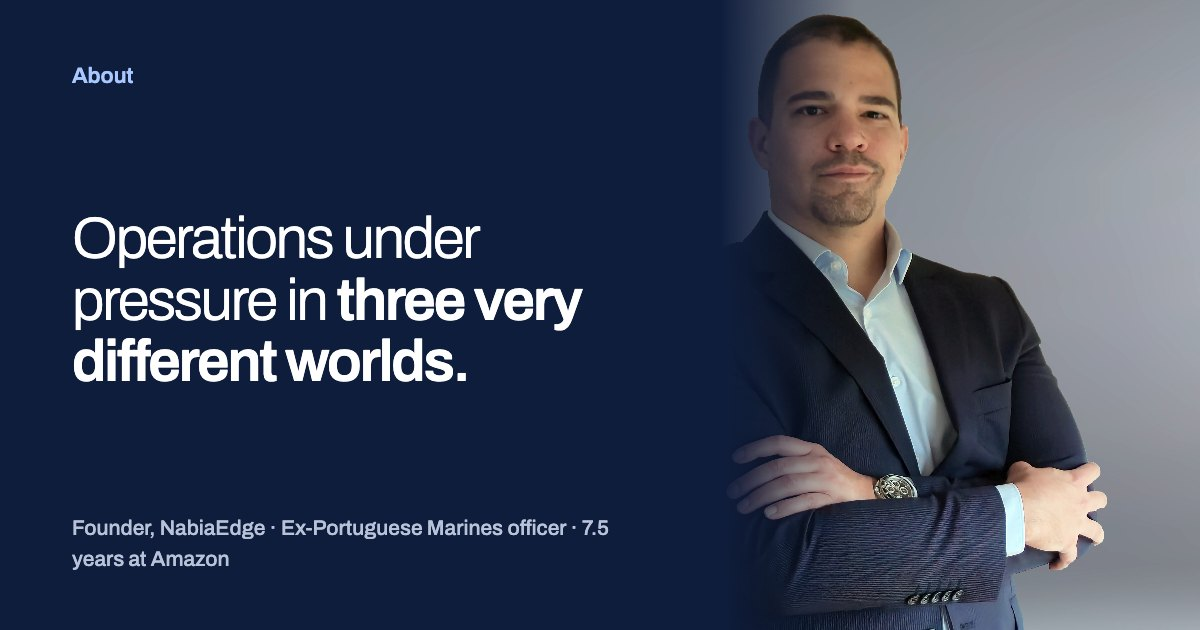
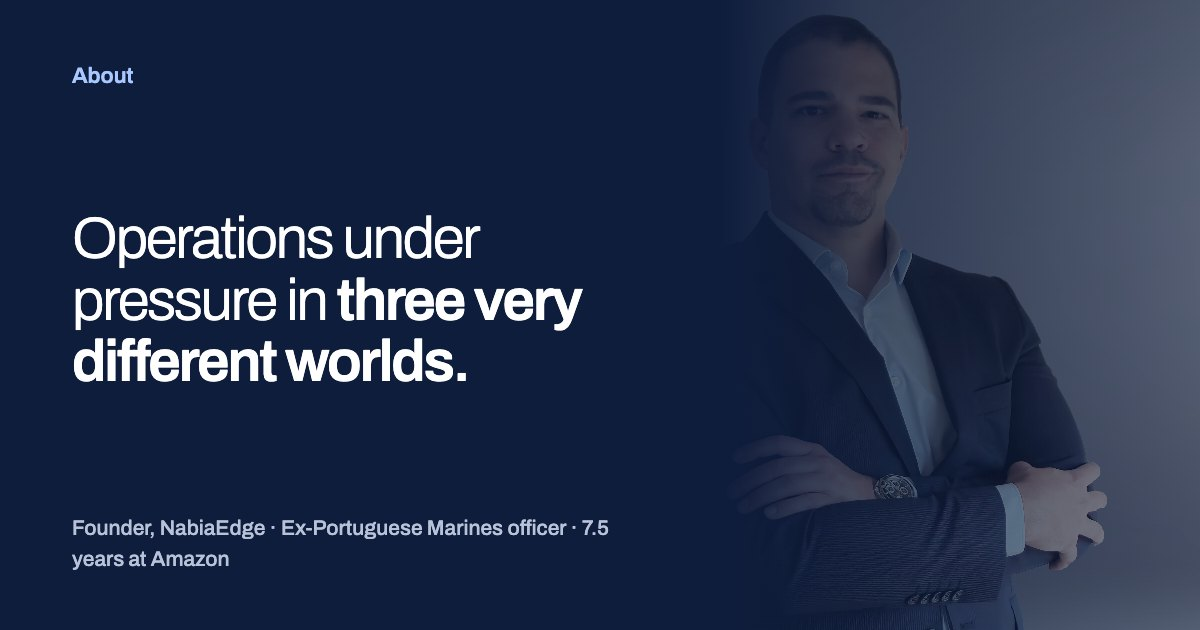
Align case study cards with other boxes; spacing on Business Advisory; softer photo in share images

Changed region(s): [[0.6167, 0.0, 1.0, 1.0]]

diff --git a/publish/index.html b/publish/index.html
@@ -19,13 +19,13 @@
 <meta property="og:url" content="https://www.nunofontoura.com/">
 <meta property="og:title" content="Nuno Fontoura | Founder, NabiaEdge | Business Advisory for Agencies">
 <meta property="og:description" content="I help founders of creative and production agencies build the operating system that runs the business without them. Ex-Marines officer, 7.5 years at Amazon.">
-<meta property="og:image" content="https://www.nunofontoura.com/assets/og/home.jpg?v=2">
+<meta property="og:image" content="https://www.nunofontoura.com/assets/og/home.jpg?v=3">
 <meta property="og:image:width" content="1200">
 <meta property="og:image:height" content="630">
 <meta name="twitter:card" content="summary_large_image">
 <link rel="preconnect" href="https://fonts.googleapis.com">
 <link rel="preconnect" href="https://fonts.gstatic.com" crossorigin>
-<script type="application/ld+json">{"@context": "https://schema.org", "@graph": [{"@type": "Person", "@id": "https://www.nunofontoura.com/#nuno", "name": "Nuno Fontoura", "url": "https://www.nunofontoura.com/", "image": "https://www.nunofontoura.com/assets/images/portrait.jpg", "jobTitle": "Founder, NabiaEdge", "email": "mailto:info@nabiaedge.com", "worksFor": {"@id": "https://www.nunofontoura.com/#nabiaedge"}, "sameAs": ["https://www.linkedin.com/in/nfontoura", "https://www.instagram.com/nuno.fontoura/", "https://www.msn.com/en-us/money/smallbusiness/top-10-most-inspiring-men-in-2026/ar-AA23TQVG"]}, {"@type": "ProfessionalService", "@id": "https://www.nunofontoura.com/#nabiaedge", "name": "NabiaEdge", "url": "https://www.nunofontoura.com/", "logo": "https://www.nunofontoura.com/icon-512.png", "image": "https://www.nunofontoura.com/assets/og/home.jpg?v=2", "email": "info@nabiaedge.com", "founder": {"@id": "https://www.nunofontoura.com/#nuno"}, "knowsLanguage": ["en", "pt"], "description": "I help founders of creative and production agencies build the operating system that runs the business without them. Ex-Marines officer, 7.5 years at Amazon."}, {"@type": "WebSite", "@id": "https://www.nunofontoura.com/#website", "url": "https://www.nunofontoura.com/", "name": "Nuno Fontoura", "inLanguage": ["en", "pt-PT"], "publisher": {"@id": "https://www.nunofontoura.com/#nuno"}}]}</script>
+<script type="application/ld+json">{"@context": "https://schema.org", "@graph": [{"@type": "Person", "@id": "https://www.nunofontoura.com/#nuno", "name": "Nuno Fontoura", "url": "https://www.nunofontoura.com/", "image": "https://www.nunofontoura.com/assets/images/portrait.jpg", "jobTitle": "Founder, NabiaEdge", "email": "mailto:info@nabiaedge.com", "worksFor": {"@id": "https://www.nunofontoura.com/#nabiaedge"}, "sameAs": ["https://www.linkedin.com/in/nfontoura", "https://www.instagram.com/nuno.fontoura/", "https://www.msn.com/en-us/money/smallbusiness/top-10-most-inspiring-men-in-2026/ar-AA23TQVG"]}, {"@type": "ProfessionalService", "@id": "https://www.nunofontoura.com/#nabiaedge", "name": "NabiaEdge", "url": "https://www.nunofontoura.com/", "logo": "https://www.nunofontoura.com/icon-512.png", "image": "https://www.nunofontoura.com/assets/og/home.jpg?v=3", "email": "info@nabiaedge.com", "founder": {"@id": "https://www.nunofontoura.com/#nuno"}, "knowsLanguage": ["en", "pt"], "description": "I help founders of creative and production agencies build the operating system that runs the business without them. Ex-Marines officer, 7.5 years at Amazon."}, {"@type": "WebSite", "@id": "https://www.nunofontoura.com/#website", "url": "https://www.nunofontoura.com/", "name": "Nuno Fontoura", "inLanguage": ["en", "pt-PT"], "publisher": {"@id": "https://www.nunofontoura.com/#nuno"}}]}</script>
 <link rel="stylesheet" href="https://fonts.googleapis.com/css2?family=Archivo:wght@300;400;500;600;800&display=swap">
 <link rel="stylesheet" href="/ds/styles.css?v=ff47d7bf5d">
 <link rel="stylesheet" href="/booking.css?v=6de085d2f6">
@@ -40,7 +40,7 @@ html{scroll-behavior:smooth}
 body{margin:0;text-wrap:pretty}
 .fc1:focus-visible{left:12px !important;top:12px !important}
 </style>
-<link rel="stylesheet" href="/premium.css?v=4b8e199302">
+<link rel="stylesheet" href="/premium.css?v=c250101048">
 </head>
 <body class="pm">
 <a class="pm-skip" href="#main-content">Skip to content</a>

diff --git a/publish/pt/index.html b/publish/pt/index.html
@@ -19,13 +19,13 @@
 <meta property="og:url" content="https://www.nunofontoura.com/pt/">
 <meta property="og:title" content="Nuno Fontoura | Fundador, NabiaEdge | Assessoria para Agências">
 <meta property="og:description" content="Ajudo fundadores de agências criativas e de produção a construir o sistema operacional que gere o negócio sem si. Ex-oficial dos Fuzileiros, 7,5 anos na Amazon.">
-<meta property="og:image" content="https://www.nunofontoura.com/assets/og/home-pt.jpg?v=2">
+<meta property="og:image" content="https://www.nunofontoura.com/assets/og/home-pt.jpg?v=3">
 <meta property="og:image:width" content="1200">
 <meta property="og:image:height" content="630">
 <meta name="twitter:card" content="summary_large_image">
 <link rel="preconnect" href="https://fonts.googleapis.com">
 <link rel="preconnect" href="https://fonts.gstatic.com" crossorigin>
-<script type="application/ld+json">{"@context": "https://schema.org", "@graph": [{"@type": "Person", "@id": "https://www.nunofontoura.com/#nuno", "name": "Nuno Fontoura", "url": "https://www.nunofontoura.com/", "image": "https://www.nunofontoura.com/assets/images/portrait.jpg", "jobTitle": "Founder, NabiaEdge", "email": "mailto:info@nabiaedge.com", "worksFor": {"@id": "https://www.nunofontoura.com/#nabiaedge"}, "sameAs": ["https://www.linkedin.com/in/nfontoura", "https://www.instagram.com/nuno.fontoura/", "https://www.msn.com/en-us/money/smallbusiness/top-10-most-inspiring-men-in-2026/ar-AA23TQVG"]}, {"@type": "ProfessionalService", "@id": "https://www.nunofontoura.com/#nabiaedge", "name": "NabiaEdge", "url": "https://www.nunofontoura.com/", "logo": "https://www.nunofontoura.com/icon-512.png", "image": "https://www.nunofontoura.com/assets/og/home.jpg?v=2", "email": "info@nabiaedge.com", "founder": {"@id": "https://www.nunofontoura.com/#nuno"}, "knowsLanguage": ["en", "pt"], "description": "I help founders of creative and production agencies build the operating system that runs the business without them. Ex-Marines officer, 7.5 years at Amazon."}, {"@type": "WebSite", "@id": "https://www.nunofontoura.com/#website", "url": "https://www.nunofontoura.com/", "name": "Nuno Fontoura", "inLanguage": ["en", "pt-PT"], "publisher": {"@id": "https://www.nunofontoura.com/#nuno"}}]}</script>
+<script type="application/ld+json">{"@context": "https://schema.org", "@graph": [{"@type": "Person", "@id": "https://www.nunofontoura.com/#nuno", "name": "Nuno Fontoura", "url": "https://www.nunofontoura.com/", "image": "https://www.nunofontoura.com/assets/images/portrait.jpg", "jobTitle": "Founder, NabiaEdge", "email": "mailto:info@nabiaedge.com", "worksFor": {"@id": "https://www.nunofontoura.com/#nabiaedge"}, "sameAs": ["https://www.linkedin.com/in/nfontoura", "https://www.instagram.com/nuno.fontoura/", "https://www.msn.com/en-us/money/smallbusiness/top-10-most-inspiring-men-in-2026/ar-AA23TQVG"]}, {"@type": "ProfessionalService", "@id": "https://www.nunofontoura.com/#nabiaedge", "name": "NabiaEdge", "url": "https://www.nunofontoura.com/", "logo": "https://www.nunofontoura.com/icon-512.png", "image": "https://www.nunofontoura.com/assets/og/home.jpg?v=3", "email": "info@nabiaedge.com", "founder": {"@id": "https://www.nunofontoura.com/#nuno"}, "knowsLanguage": ["en", "pt"], "description": "I help founders of creative and production agencies build the operating system that runs the business without them. Ex-Marines officer, 7.5 years at Amazon."}, {"@type": "WebSite", "@id": "https://www.nunofontoura.com/#website", "url": "https://www.nunofontoura.com/", "name": "Nuno Fontoura", "inLanguage": ["en", "pt-PT"], "publisher": {"@id": "https://www.nunofontoura.com/#nuno"}}]}</script>
 <link rel="stylesheet" href="https://fonts.googleapis.com/css2?family=Archivo:wght@300;400;500;600;800&display=swap">
 <link rel="stylesheet" href="/ds/styles.css?v=ff47d7bf5d">
 <link rel="stylesheet" href="/booking.css?v=6de085d2f6">
@@ -54,7 +54,7 @@ body{margin:0;text-wrap:pretty}
 <style>
 .hv1:hover{color:var(--color-accent) !important}
 </style>
-<link rel="stylesheet" href="/premium.css?v=4b8e199302">
+<link rel="stylesheet" href="/premium.css?v=c250101048">
 </head>
 <body class="pm">
 <a class="pm-skip" href="#main-content">Saltar para o conte&uacute;do</a>

diff --git a/publish/case-studies/yunik/index.html b/publish/case-studies/yunik/index.html
@@ -6,7 +6,7 @@
 <title>Case Study: Yunik, a Brand Activation Agency | Nuno Fontoura</title>
 <meta name="description" content="How Yunik, a brand activation agency in Viseu, cut the decisions reaching its owner by 30% in five months with a clear structure, briefing standard, project board and SOPs.">
 <link rel="canonical" href="https://www.nunofontoura.com/case-studies/yunik/">
-<script type="application/ld+json">{"@context": "https://schema.org", "@type": "Article", "headline": "30% fewer decisions on the owner's desk in five months", "description": "How Yunik, a brand activation agency in Viseu, cut the decisions reaching its owner by 30% in five months with a clear structure, briefing standard, project board and SOPs.", "author": {"@type": "Person", "@id": "https://www.nunofontoura.com/#nuno", "name": "Nuno Fontoura"}, "publisher": {"@id": "https://www.nunofontoura.com/#nabiaedge"}, "about": {"@type": "Organization", "name": "Yunik", "url": "https://yunik.us/", "address": {"@type": "PostalAddress", "addressLocality": "Viseu", "addressCountry": "PT"}}, "datePublished": "2026-09-17", "image": "https://www.nunofontoura.com/assets/og/case-study-yunik.jpg?v=2", "mainEntityOfPage": "https://www.nunofontoura.com/case-studies/yunik/"}</script>
+<script type="application/ld+json">{"@context": "https://schema.org", "@type": "Article", "headline": "30% fewer decisions on the owner's desk in five months", "description": "How Yunik, a brand activation agency in Viseu, cut the decisions reaching its owner by 30% in five months with a clear structure, briefing standard, project board and SOPs.", "author": {"@type": "Person", "@id": "https://www.nunofontoura.com/#nuno", "name": "Nuno Fontoura"}, "publisher": {"@id": "https://www.nunofontoura.com/#nabiaedge"}, "about": {"@type": "Organization", "name": "Yunik", "url": "https://yunik.us/", "address": {"@type": "PostalAddress", "addressLocality": "Viseu", "addressCountry": "PT"}}, "datePublished": "2026-09-17", "image": "https://www.nunofontoura.com/assets/og/case-study-yunik.jpg?v=3", "mainEntityOfPage": "https://www.nunofontoura.com/case-studies/yunik/"}</script>
 <meta name="theme-color" content="#0F1D3D">
 <link rel="icon" href="/favicon.ico" sizes="32x32">
 <link rel="icon" href="/favicon.svg" type="image/svg+xml">
@@ -17,7 +17,7 @@
 <meta property="og:url" content="https://www.nunofontoura.com/case-studies/yunik/">
 <meta property="og:title" content="Case Study: Yunik, a Brand Activation Agency | Nuno Fontoura">
 <meta property="og:description" content="How Yunik, a brand activation agency in Viseu, cut the decisions reaching its owner by 30% in five months with a clear structure, briefing standard, project board and SOPs.">
-<meta property="og:image" content="https://www.nunofontoura.com/assets/og/case-study-yunik.jpg?v=2">
+<meta property="og:image" content="https://www.nunofontoura.com/assets/og/case-study-yunik.jpg?v=3">
 <meta property="og:image:width" content="1200">
 <meta property="og:image:height" content="630">
 <meta name="twitter:card" content="summary_large_image">
@@ -46,7 +46,7 @@ body{margin:0;text-wrap:pretty}
 <style>
 .hv1:hover{color:var(--color-accent) !important}
 </style>
-<link rel="stylesheet" href="/premium.css?v=4b8e199302">
+<link rel="stylesheet" href="/premium.css?v=c250101048">
 </head>
 <body class="pm">
 <a class="pm-skip" href="#main-content">Skip to content</a>

diff --git a/publish/case-studies/psicodramatizar/index.html b/publish/case-studies/psicodramatizar/index.html
@@ -6,7 +6,7 @@
 <title>Case Study: Psicodramatizar, a Psychology Clinic | Nuno Fontoura</title>
 <meta name="description" content="How a clinical psychology clinic in Porto cut money owed by 70%, late payments by 80% and grew revenue 10% with a receivables tracker, simpler payments and a clear revenue target.">
 <link rel="canonical" href="https://www.nunofontoura.com/case-studies/psicodramatizar/">
-<script type="application/ld+json">{"@context": "https://schema.org", "@type": "Article", "headline": "70% less money owed to the clinic, and 80% fewer late payments", "author": {"@type": "Person", "@id": "https://www.nunofontoura.com/#nuno", "name": "Nuno Fontoura"}, "datePublished": "2026-09-17", "about": {"@type": "MedicalClinic", "name": "Psicodramatizar", "url": "https://www.psicodramatizar.com/", "address": {"@type": "PostalAddress", "addressLocality": "Porto", "addressCountry": "PT"}}, "image": "https://www.nunofontoura.com/assets/og/case-study-psicodramatizar.jpg?v=2", "mainEntityOfPage": "https://www.nunofontoura.com/case-studies/psicodramatizar/"}</script>
+<script type="application/ld+json">{"@context": "https://schema.org", "@type": "Article", "headline": "70% less money owed to the clinic, and 80% fewer late payments", "author": {"@type": "Person", "@id": "https://www.nunofontoura.com/#nuno", "name": "Nuno Fontoura"}, "datePublished": "2026-09-17", "about": {"@type": "MedicalClinic", "name": "Psicodramatizar", "url": "https://www.psicodramatizar.com/", "address": {"@type": "PostalAddress", "addressLocality": "Porto", "addressCountry": "PT"}}, "image": "https://www.nunofontoura.com/assets/og/case-study-psicodramatizar.jpg?v=3", "mainEntityOfPage": "https://www.nunofontoura.com/case-studies/psicodramatizar/"}</script>
 <meta name="theme-color" content="#0F1D3D">
 <link rel="icon" href="/favicon.ico" sizes="32x32">
 <link rel="icon" href="/favicon.svg" type="image/svg+xml">
@@ -17,7 +17,7 @@
 <meta property="og:url" content="https://www.nunofontoura.com/case-studies/psicodramatizar/">
 <meta property="og:title" content="Case Study: Psicodramatizar, a Psychology Clinic | Nuno Fontoura">
 <meta property="og:description" content="How a clinical psychology clinic in Porto cut money owed by 70%, late payments by 80% and grew revenue 10% with a receivables tracker, simpler payments and a clear revenue target.">
-<meta property="og:image" content="https://www.nunofontoura.com/assets/og/case-study-psicodramatizar.jpg?v=2">
+<meta property="og:image" content="https://www.nunofontoura.com/assets/og/case-study-psicodramatizar.jpg?v=3">
 <meta property="og:image:width" content="1200">
 <meta property="og:image:height" content="630">
 <meta name="twitter:card" content="summary_large_image">
@@ -46,7 +46,7 @@ body{margin:0;text-wrap:pretty}
 <style>
 .hv1:hover{color:var(--color-accent) !important}
 </style>
-<link rel="stylesheet" href="/premium.css?v=4b8e199302">
+<link rel="stylesheet" href="/premium.css?v=c250101048">
 </head>
 <body class="pm">
 <a class="pm-skip" href="#main-content">Skip to content</a>

diff --git a/publish/pt/business-advisory/index.html b/publish/pt/business-advisory/index.html
@@ -19,7 +19,7 @@
 <meta property="og:url" content="https://www.nunofontoura.com/pt/business-advisory/">
 <meta property="og:title" content="Assessoria de Negócio para Agências | Nuno Fontoura">
 <meta property="og:description" content="Programa de 12 semanas para agências criativas e de produção lideradas pelo fundador, assente no Vessel Operating System, com um plano de 90 dias acompanhado.">
-<meta property="og:image" content="https://www.nunofontoura.com/assets/og/business-advisory-pt.jpg?v=2">
+<meta property="og:image" content="https://www.nunofontoura.com/assets/og/business-advisory-pt.jpg?v=3">
 <meta property="og:image:width" content="1200">
 <meta property="og:image:height" content="630">
 <meta name="twitter:card" content="summary_large_image">
@@ -52,7 +52,7 @@ body{margin:0;text-wrap:pretty}
 .fc1:focus-visible{left:12px !important;top:12px !important}
 .hv2:hover{color:var(--color-accent) !important}
 </style>
-<link rel="stylesheet" href="/premium.css?v=4b8e199302">
+<link rel="stylesheet" href="/premium.css?v=c250101048">
 </head>
 <body class="pm">
 <a class="pm-skip" href="#main-content">Saltar para o conte&uacute;do</a>
@@ -139,7 +139,7 @@ body{margin:0;text-wrap:pretty}
     </div>
 
     <p style="margin:24px 0 0;font-weight:700"><a href="/vessel-operating-system/">Como o VOS avalia as nove &aacute;reas (em ingl&ecirc;s) &rarr;</a></p>
-      <h3 style="font-family:var(--font-heading);font-weight:800;font-size:20px;margin:0 0 36px;color:var(--color-text)">Como o programa funciona:</h3>
+      <h3 style="font-family:var(--font-heading);font-weight:800;font-size:20px;margin:64px 0 36px;color:var(--color-text)">Como o programa funciona:</h3>
     <div style="display:grid;grid-template-columns:1fr 1fr;gap:clamp(40px,5vw,64px);margin-bottom:84px">
       <div style="display:flex;gap:20px">
         <div style="font-family:var(--font-heading);font-weight:800;font-size:20px;color:var(--color-accent);flex-shrink:0;line-height:1">01</div>

diff --git a/publish/business-advisory/index.html b/publish/business-advisory/index.html
@@ -19,7 +19,7 @@
 <meta property="og:url" content="https://www.nunofontoura.com/business-advisory/">
 <meta property="og:title" content="Business Advisory for Agency Founders | Nuno Fontoura">
 <meta property="og:description" content="A 12-week programme for founder-led creative and production agencies, built on the Vessel Operating System, with a 90-day plan and tracked execution.">
-<meta property="og:image" content="https://www.nunofontoura.com/assets/og/business-advisory.jpg?v=2">
+<meta property="og:image" content="https://www.nunofontoura.com/assets/og/business-advisory.jpg?v=3">
 <meta property="og:image:width" content="1200">
 <meta property="og:image:height" content="630">
 <meta name="twitter:card" content="summary_large_image">
@@ -51,7 +51,7 @@ body{margin:0;text-wrap:pretty}
 <style>
 .hv1:hover{color:var(--color-accent) !important}
 </style>
-<link rel="stylesheet" href="/premium.css?v=4b8e199302">
+<link rel="stylesheet" href="/premium.css?v=c250101048">
 </head>
 <body class="pm">
 <a class="pm-skip" href="#main-content">Skip to content</a>
@@ -142,7 +142,7 @@ body{margin:0;text-wrap:pretty}
     </div>
 
     <p style="margin:24px 0 0;font-weight:700"><a href="/vessel-operating-system/">How VOS scores the nine areas &rarr;</a></p>
-      <h3 style="font-family:var(--font-heading);font-weight:800;font-size:20px;margin:0 0 36px;color:var(--color-text)">How the programme runs:</h3>
+      <h3 style="font-family:var(--font-heading);font-weight:800;font-size:20px;margin:64px 0 36px;color:var(--color-text)">How the programme runs:</h3>
     <div style="display:grid;grid-template-columns:1fr 1fr;gap:clamp(40px,5vw,64px);margin-bottom:84px">
       <div style="display:flex;gap:20px">
         <div style="font-family:var(--font-heading);font-weight:800;font-size:20px;color:var(--color-accent);flex-shrink:0;line-height:1">01</div>

diff --git a/publish/pt/book/index.html b/publish/pt/book/index.html
@@ -16,7 +16,7 @@
 <meta property="og:url" content="https://www.nunofontoura.com/pt/book/">
 <meta property="og:title" content="Marcar Chamada Exploratória | Nuno Fontoura">
 <meta property="og:description" content="Marque uma chamada exploratória gratuita de 30 minutos com Nuno Fontoura: descubra onde se perdem decisões, tempo ou dinheiro na sua agência e saia com a primeira correção.">
-<meta property="og:image" content="https://www.nunofontoura.com/assets/og/business-advisory-pt.jpg?v=2">
+<meta property="og:image" content="https://www.nunofontoura.com/assets/og/business-advisory-pt.jpg?v=3">
 <meta property="og:image:width" content="1200">
 <meta property="og:image:height" content="630">
 <meta name="twitter:card" content="summary_large_image">
@@ -48,7 +48,7 @@ body{margin:0;text-wrap:pretty}
 .fc1:focus-visible{left:12px !important;top:12px !important}
 .hv2:hover{color:var(--color-accent) !important}
 </style>
-<link rel="stylesheet" href="/premium.css?v=4b8e199302">
+<link rel="stylesheet" href="/premium.css?v=c250101048">
 </head>
 <body class="pm">
 <a class="pm-skip" href="#main-content">Saltar para o conte&uacute;do</a>

diff --git a/publish/vessel-operating-system/index.html b/publish/vessel-operating-system/index.html
@@ -17,7 +17,7 @@
 <meta property="og:url" content="https://www.nunofontoura.com/vessel-operating-system/">
 <meta property="og:title" content="The Vessel Operating System (VOS): Business Health Score | Nuno Fontoura">
 <meta property="og:description" content="VOS scores a founder-led business across three pillars and nine areas, gives a Business Health score from 0 to 100, and turns the weakest points into a tracked 90-day plan.">
-<meta property="og:image" content="https://www.nunofontoura.com/assets/og/vessel-operating-system.jpg?v=2">
+<meta property="og:image" content="https://www.nunofontoura.com/assets/og/vessel-operating-system.jpg?v=3">
 <meta property="og:image:width" content="1200">
 <meta property="og:image:height" content="630">
 <meta name="twitter:card" content="summary_large_image">
@@ -46,7 +46,7 @@ body{margin:0;text-wrap:pretty}
 <style>
 .hv1:hover{color:var(--color-accent) !important}
 </style>
-<link rel="stylesheet" href="/premium.css?v=4b8e199302">
+<link rel="stylesheet" href="/premium.css?v=c250101048">
 </head>
 <body class="pm">
 <a class="pm-skip" href="#main-content">Skip to content</a>

diff --git a/publish/pt/micro-consulting/index.html b/publish/pt/micro-consulting/index.html
@@ -19,7 +19,7 @@
 <meta property="og:url" content="https://www.nunofontoura.com/pt/micro-consulting/">
 <meta property="og:title" content="Micro-consultoria NabiaEdge | Nuno Fontoura">
 <meta property="og:description" content="A micro-consultoria resolve um problema operacional da sua ag&ecirc;ncia, atrav&eacute;s da NabiaEdge. Veja a diferen&ccedil;a para a Assessoria de Neg&oacute;cio.">
-<meta property="og:image" content="https://www.nunofontoura.com/assets/og/micro-consulting.jpg?v=2">
+<meta property="og:image" content="https://www.nunofontoura.com/assets/og/micro-consulting.jpg?v=3">
 <meta property="og:image:width" content="1200">
 <meta property="og:image:height" content="630">
 <meta name="twitter:card" content="summary_large_image">
@@ -37,7 +37,7 @@ html{scroll-behavior:smooth}
 body{margin:0;text-wrap:pretty}
 .fc1:focus-visible{left:12px !important;top:12px !important}
 </style>
-<link rel="stylesheet" href="/premium.css?v=4b8e199302">
+<link rel="stylesheet" href="/premium.css?v=c250101048">
 </head>
 <body class="pm">
 <a class="pm-skip" href="#main-content">Saltar para o conte&uacute;do</a>

diff --git a/publish/micro-consulting/index.html b/publish/micro-consulting/index.html
@@ -19,7 +19,7 @@
 <meta property="og:url" content="https://www.nunofontoura.com/micro-consulting/">
 <meta property="og:title" content="Micro Consulting by NabiaEdge | Nuno Fontoura">
 <meta property="og:description" content="Short-term micro consulting from NabiaEdge for owners without the bandwidth to fix an operational problem in-house. See how it differs from Business Advisory.">
-<meta property="og:image" content="https://www.nunofontoura.com/assets/og/micro-consulting.jpg?v=2">
+<meta property="og:image" content="https://www.nunofontoura.com/assets/og/micro-consulting.jpg?v=3">
 <meta property="og:image:width" content="1200">
 <meta property="og:image:height" content="630">
 <meta name="twitter:card" content="summary_large_image">
@@ -37,7 +37,7 @@ html{scroll-behavior:smooth}
 body{margin:0;text-wrap:pretty}
 .fc1:focus-visible{left:12px !important;top:12px !important}
 </style>
-<link rel="stylesheet" href="/premium.css?v=4b8e199302">
+<link rel="stylesheet" href="/premium.css?v=c250101048">
 </head>
 <body class="pm">
 <a class="pm-skip" href="#main-content">Skip to content</a>

diff --git a/publish/free-resources/index.html b/publish/free-resources/index.html
@@ -16,7 +16,7 @@
 <meta property="og:url" content="https://www.nunofontoura.com/free-resources/">
 <meta property="og:title" content="Free Operations Tools for Founders | Nuno Fontoura">
 <meta property="og:description" content="Four free tools from the Vessel Operating System: the Founder Bottleneck Audit, VOS Scorecard Preview, Decision Rulebook and Governance Cadence Planner.">
-<meta property="og:image" content="https://www.nunofontoura.com/assets/og/free-resources.jpg?v=2">
+<meta property="og:image" content="https://www.nunofontoura.com/assets/og/free-resources.jpg?v=3">
 <meta property="og:image:width" content="1200">
 <meta property="og:image:height" content="630">
 <meta name="twitter:card" content="summary_large_image">
@@ -48,7 +48,7 @@ body{margin:0;text-wrap:pretty}
 <style>
 .hv1:hover{color:var(--color-accent) !important}
 </style>
-<link rel="stylesheet" href="/premium.css?v=4b8e199302">
+<link rel="stylesheet" href="/premium.css?v=c250101048">
 </head>
 <body class="pm">
 <a class="pm-skip" href="#main-content">Skip to content</a>

diff --git a/publish/about/index.html b/publish/about/index.html
@@ -17,7 +17,7 @@
 <meta property="og:url" content="https://www.nunofontoura.com/about/">
 <meta property="og:title" content="About Nuno Fontoura: Marines, Amazon, NabiaEdge">
 <meta property="og:description" content="Nuno Fontoura is the founder of NabiaEdge: six years as a Portuguese Marines officer, seven and a half at Amazon, now helping agency founders build businesses that run without them.">
-<meta property="og:image" content="https://www.nunofontoura.com/assets/og/about.jpg?v=2">
+<meta property="og:image" content="https://www.nunofontoura.com/assets/og/about.jpg?v=3">
 <meta property="og:image:width" content="1200">
 <meta property="og:image:height" content="630">
 <meta name="twitter:card" content="summary_large_image">
@@ -46,7 +46,7 @@ body{margin:0;text-wrap:pretty}
 <style>
 .hv1:hover{color:var(--color-accent) !important}
 </style>
-<link rel="stylesheet" href="/premium.css?v=4b8e199302">
+<link rel="stylesheet" href="/premium.css?v=c250101048">
 </head>
 <body class="pm">
 <a class="pm-skip" href="#main-content">Skip to content</a>
